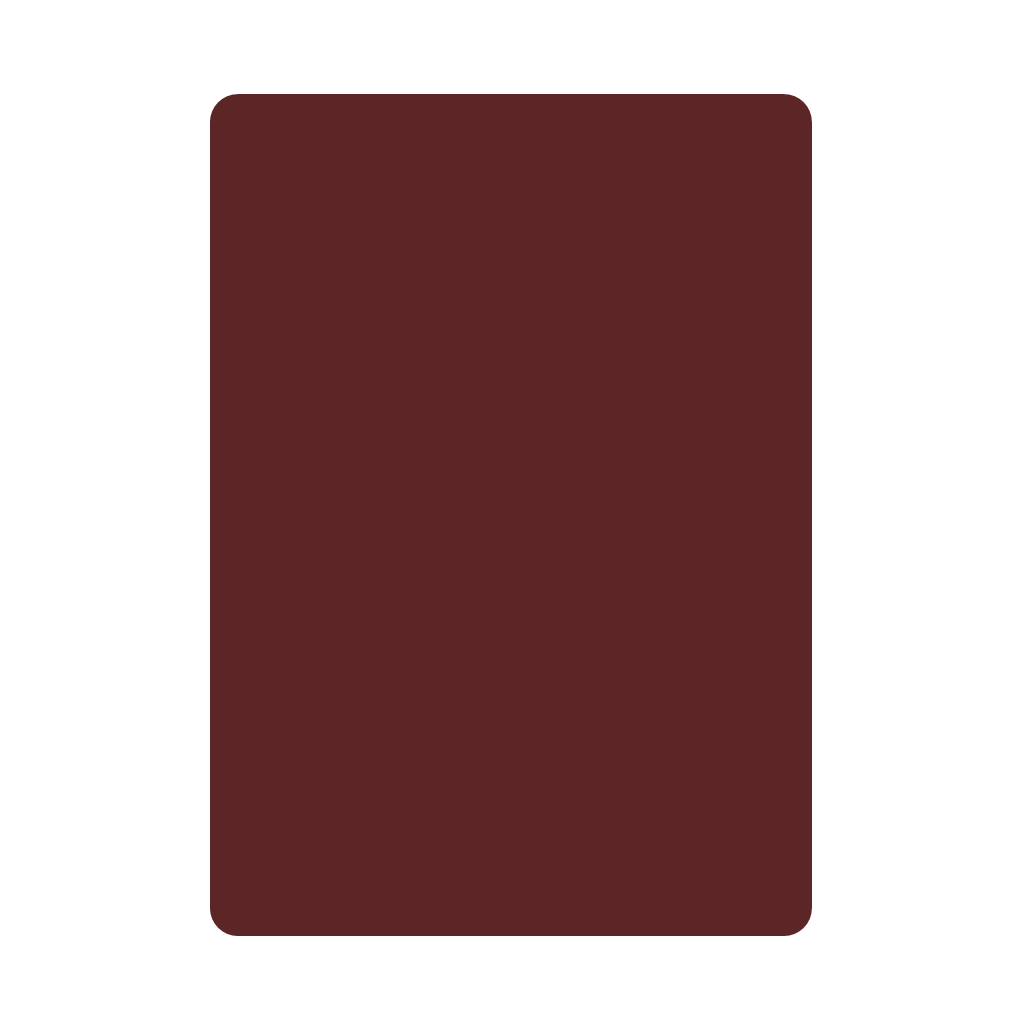
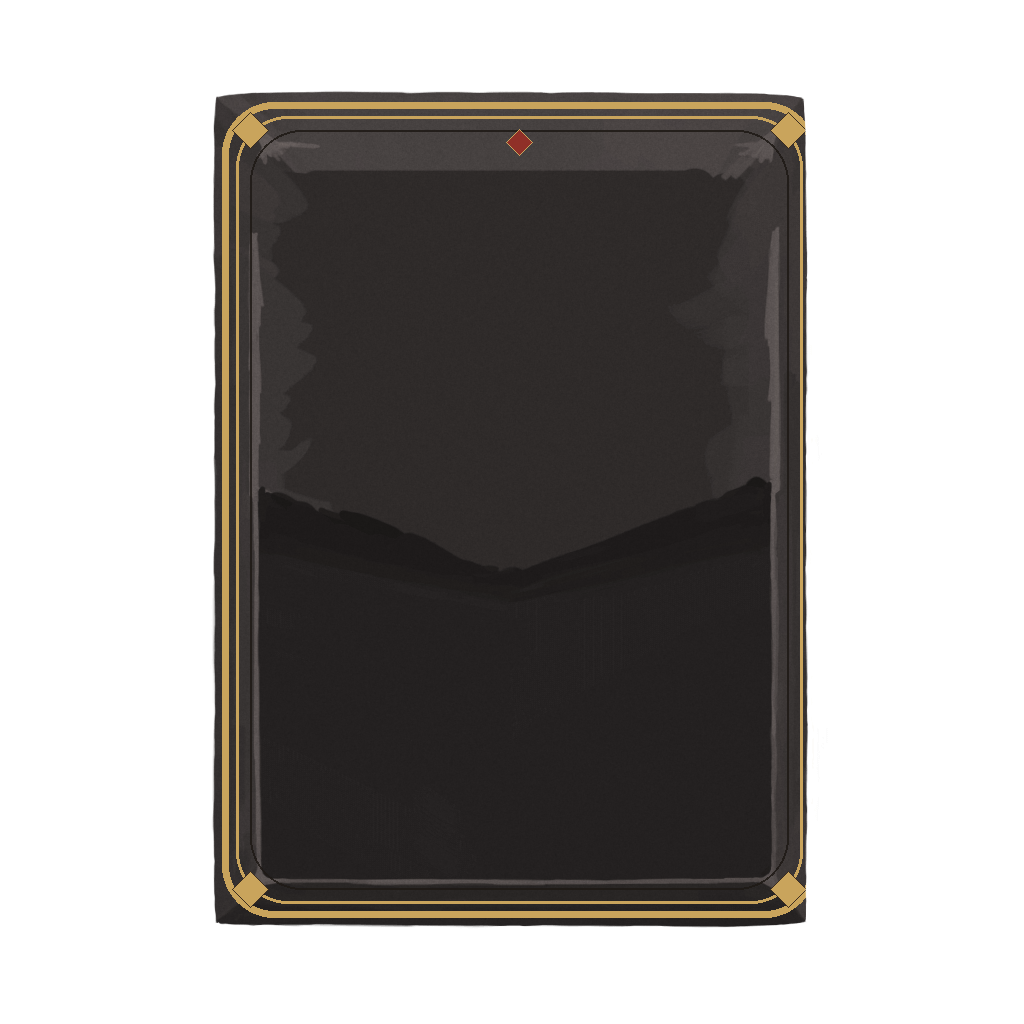
feat: 重绘卡框（墨底 + 金线 + 角饰）

diff --git a/tools/make-card-frames.py b/tools/make-card-frames.py
@@ -1,0 +1,187 @@
+#!/usr/bin/env python
+"""从原版卡框图集重绘字修的卡框。
+
+原版把卡框存在 cardui.atlas + cardui*.png 里。这里按 atlas 的 offset 把区域拼回
+1024x1024 的完整卡框，再做一层「水墨 + 宣纸」的重绘，保留原版版式（玩家熟悉），
+只换材质和配色。输出 BaseMod.addColor 需要的 512/1024 与能量球。
+
+用法： python tools/make-card-frames.py [--game D:\\Steam\\...\\SlayTheSpire]
+"""
+import argparse
+import io
+import os
+import re
+import sys
+import zipfile
+
+from PIL import Image, ImageChops, ImageDraw, ImageEnhance, ImageFilter
+
+ROOT = os.path.dirname(os.path.dirname(os.path.abspath(__file__)))
+OUT = os.path.join(ROOT, "src", "main", "resources", "zixiu", "images", "cardui")
+
+PAGES = ["cardui.png", "cardui2.png", "cardui3.png", "cardui4.png"]
+
+# 类型 -> 主色（低饱和，压在边框上）
+TINTS = {
+    "attack": (178, 74, 58),
+    "skill": (74, 107, 120),
+    "power": (107, 90, 122),
+}
+
+
+def parse_atlas(text):
+    """返回 {区域名: (页索引, x, y, w, h, 原宽, 原高, offX, offY)}"""
+    regions = {}
+    page = -1
+    cur = None
+    for line in text.splitlines():
+        line = line.strip()
+        if not line:
+            continue
+        if line in PAGES:
+            page = PAGES.index(line)
+            continue
+        if line.startswith(("rotate:", "size:", "orig:", "offset:", "index:", "bounds:", "offsets:")):
+            key, _, val = line.partition(":")
+            val = val.strip()
+            if cur is not None:
+                if key == "size":
+                    cur["w"], cur["h"] = (int(v) for v in val.split(","))
+                elif key == "orig":
+                    cur["ow"], cur["oh"] = (int(v) for v in val.split(","))
+                elif key == "offset":
+                    cur["ox"], cur["oy"] = (int(v) for v in val.split(","))
+            continue
+        if line.startswith("xy:"):
+            if cur is not None:
+                cur["x"], cur["y"] = (int(v) for v in line[3:].strip().split(","))
+            continue
+        # 区域名
+        if cur is not None:
+            regions[cur["name"]] = (cur["page"], cur["x"], cur["y"], cur["w"], cur["h"],
+                                    cur["ow"], cur["oh"], cur["ox"], cur["oy"])
+        cur = {"name": line, "page": page, "x": 0, "y": 0, "w": 0, "h": 0,
+               "ow": 0, "oh": 0, "ox": 0, "oy": 0}
+    if cur is not None:
+        regions[cur["name"]] = (cur["page"], cur["x"], cur["y"], cur["w"], cur["h"],
+                                cur["ow"], cur["oh"], cur["ox"], cur["oy"])
+    return regions
+
+
+def compose(pages, region):
+    page_idx, x, y, w, h, ow, oh, ox, oy = region
+    crop = pages[page_idx].crop((x, y, x + w, y + h))
+    canvas = Image.new("RGBA", (ow, oh), (0, 0, 0, 0))
+    canvas.paste(crop, (ox, oy))
+    return canvas
+
+
+def gradient_map(lum, stops):
+    """把亮度映射到颜色：stops = [(亮度, (r,g,b)), ...]"""
+    r, g, b = Image.new("L", lum.size), Image.new("L", lum.size), Image.new("L", lum.size)
+    r_lut, g_lut, b_lut = [], [], []
+    for i in range(256):
+        # 找到所在区间
+        for j in range(len(stops) - 1):
+            lo, hi = stops[j], stops[j + 1]
+            if lo[0] <= i <= hi[0]:
+                t = 0.0 if hi[0] == lo[0] else (i - lo[0]) / float(hi[0] - lo[0])
+                r_lut.append(int(lo[1][0] + (hi[1][0] - lo[1][0]) * t))
+                g_lut.append(int(lo[1][1] + (hi[1][1] - lo[1][1]) * t))
+                b_lut.append(int(lo[1][2] + (hi[1][2] - lo[1][2]) * t))
+                break
+        else:
+            last = stops[-1][1]
+            r_lut.append(last[0]); g_lut.append(last[1]); b_lut.append(last[2])
+    r.putdata(r_lut); g.putdata(g_lut); b.putdata(b_lut)
+    return Image.merge("RGB", (r, g, b))
+
+
+def restyle(mask_source, kind):
+    """原版卡身压暗 + 程序化金线/角饰。素材来自原版图集，版式不会跑偏。"""
+    alpha = mask_source.getchannel("A")
+    bbox = alpha.getbbox()
+    x0, y0, x1, y1 = bbox
+    width, height = mask_source.size
+
+    # 压暗、降饱和，并向类型色偏一点
+    body = mask_source.convert("RGB")
+    body = ImageEnhance.Color(body).enhance(0.55)
+    body = ImageEnhance.Brightness(body).enhance(0.62)
+    tint = Image.new("RGB", body.size, TINTS[kind])
+    body = Image.blend(body, ImageChops.multiply(body, tint), 0.18)
+
+    noise = Image.effect_noise((width, height), 20).convert("L").filter(ImageFilter.GaussianBlur(0.5))
+    body = Image.blend(body, ImageChops.overlay(body, Image.merge("RGB", (noise, noise, noise))), 0.25)
+    body = body.convert("RGBA")
+
+    overlay = Image.new("RGBA", (width, height), (0, 0, 0, 0))
+    d = ImageDraw.Draw(overlay)
+    gold = (201, 164, 92, 255)
+    ink = (30, 25, 21, 220)
+    for inset, line_width, color in ((12, 7, gold), (26, 3, gold), (40, 2, ink)):
+        d.rounded_rectangle([x0 + inset, y0 + inset, x1 - inset, y1 - inset],
+                            radius=52, outline=color, width=line_width)
+    for cx, cy in ((x0 + 40, y0 + 40), (x1 - 40, y0 + 40), (x0 + 40, y1 - 40), (x1 - 40, y1 - 40)):
+        d.polygon([(cx, cy - 18), (cx + 18, cy), (cx, cy + 18), (cx - 18, cy)],
+                  fill=gold, outline=(60, 45, 32, 255))
+    cx = (x0 + x1) // 2
+    cy = y0 + 52
+    d.polygon([(cx, cy - 13), (cx + 13, cy), (cx, cy + 13), (cx - 13, cy)],
+              fill=(150, 46, 38, 235), outline=gold)
+
+    out = Image.alpha_composite(body, overlay)
+    out.putalpha(alpha)
+    return out
+
+
+def main():
+    ap = argparse.ArgumentParser()
+    ap.add_argument("--game", default=r"D:\Steam\steamapps\common\SlayTheSpire")
+    opt = ap.parse_args()
+
+    jar = os.path.join(opt.game, "desktop-1.0.jar")
+    if not os.path.isfile(jar):
+        sys.exit("找不到 %s" % jar)
+    os.makedirs(OUT, exist_ok=True)
+
+    with zipfile.ZipFile(jar) as z:
+        atlas = z.read("cardui/cardui.atlas").decode("utf-8", errors="ignore")
+        pages = [Image.open(io.BytesIO(z.read("cardui/" + p))).convert("RGBA") for p in PAGES]
+        regions = parse_atlas(atlas)
+
+        for kind in ("attack", "skill", "power"):
+            big_name = "1024/bg_%s_colorless" % kind
+            small_name = "512/bg_%s_colorless" % kind
+            if big_name not in regions:
+                print("缺少区域", big_name)
+                continue
+            big = compose(pages, regions[big_name])
+            big = restyle(big, kind)
+            big.save(os.path.join(OUT, "bg_%s_1024.png" % kind))
+            big.resize((512, 512), Image.LANCZOS).save(
+                os.path.join(OUT, "bg_%s_512.png" % kind))
+            if small_name in regions:
+                small = compose(pages, regions[small_name])
+                small.resize((512, 512), Image.LANCZOS).save(
+                    os.path.join(OUT, "bg_%s_512_vanilla.png" % kind))
+            print("frames:", kind)
+
+        # 能量球：原版无色球
+        orb = "512/card_colorless_orb"
+        if orb in regions:
+            ball = compose(pages, regions[orb])
+            alpha = ball.getchannel("A")
+            rgb = ball.convert("RGB").convert("L")
+            tinted = gradient_map(rgb, [(0, (28, 24, 20)), (140, (120, 96, 72)), (255, (245, 232, 200))])
+            ball = tinted.convert("RGBA")
+            ball.putalpha(alpha)
+            ball.save(os.path.join(OUT, "card_orb.png"))
+            ball.resize((128, 128), Image.LANCZOS).save(os.path.join(OUT, "big_orb.png"))
+            ball.resize((64, 64), Image.LANCZOS).save(os.path.join(OUT, "small_orb.png"))
+            print("orbs: ok")
+    return 0
+
+
+if __name__ == "__main__":
+    sys.exit(main())

diff --git a/CHANGELOG.md b/CHANGELOG.md
@@ -1,5 +1,13 @@
 # 更新日志
 
+## 0.2.9
+
+**卡框**
+
+- 卡框从纯色块换成重绘版式：原版图集取卡牌轮廓 → 压暗做墨底 → 程序化双金线、
+  四角金饰、顶部朱砂印，按类型（攻击/技能/能力）做轻微色调区分。
+- 生成流程在 `tools/make-card-frames.py`，素材取自游戏本体图集，不需要外部素材。
+
 ## 0.2.8
 
 **卡图**
